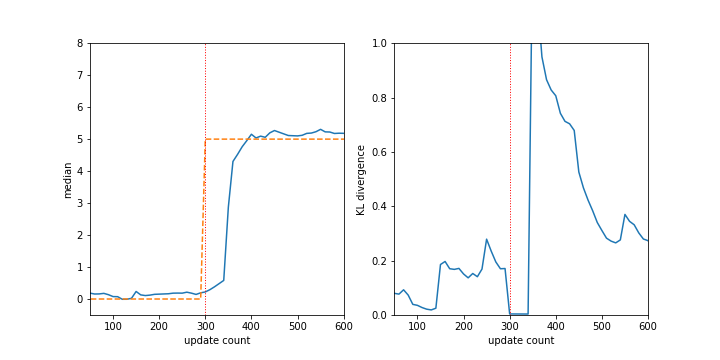
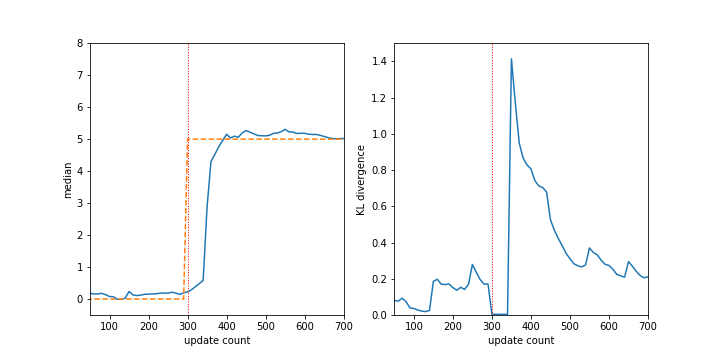
* Update docs
* fix typos
	* update figures of sudden cd histogram

diff --git a/flip-docs/resources/experiments/sudden-cd.py b/flip-docs/resources/experiments/sudden-cd.py
@@ -14,7 +14,7 @@ fig = plt.figure(figsize=(10, 5))
 nrows = 1
 ncols = 2
 countmin = 50
-countmax = 600
+countmax = 700
 
 moving_start = 300
 dest = 5
@@ -23,7 +23,7 @@ def data_loc(i):
     return dir + "sudden-cd-normal-pdf-" + str(i) + ".out"
 
 def expected(x, start, i):
-    if i < start:
+    if i <= start:
         return norm.pdf(x)
     else:
         return norm.pdf(np.array(x) - dest)
@@ -56,7 +56,7 @@ ax1.set_ylim(medianmin, medianmax)
 
 rearr_start = 50
 rearr_period = 100
-kld_max = 1.0
+kld_max = 1.5
 
 kld_data_loc = dir + "sudden-cd-normal-kld.out"
 

diff --git a/README.md b/README.md
@@ -8,9 +8,9 @@
 
 *Flip* is *F*ast, *L*ightweight pure-functional library for *I*nformation theory and *P*robability distribution. *Flip* aims to extract and process statistical features of the input data stream in a short time using only small memory. It has the following features:
 
-* Quicly summarizing probability distribution for random variable stream using `Sketch`
-* Combine several probability distributions with probability monad
-* Generate random variables from predefined and estimated probability disributions 
+* Quicly summarize probability distribution for random variable stream using `Sketch`
+* Combine several probability distributions by probability monad
+* Generate random variables from many predefined and estimated probability disributions 
 * Measure similarity between two probability distribution using Kullback–Leibler divergence
 
 
@@ -35,7 +35,8 @@ Here is an example of how `Sketch` estimates the density using the dataset sampl
 import flip._
 
 // get 100 random variables from standard normal distribution 
-val (_, samples) = NumericDist.normal(0.0, 1.0).samples(100)
+val underlying = NumericDist.normal(0.0, 1.0)
+val (_, samples) = underlying.samples(100)
 
 // update samples to sketch
 val sketch0 = Sketch.empty[Double]
@@ -45,28 +46,30 @@ val utdSketch = samples.foldLeft(sketch0){ case (sketch, sample) =>
 
 // get probability for interval [0.0, 1.0]
 println("result: " + utdSketch.probability(0.0, 1.0)) 
-println("expected: " + NumericDist.normal(0.0, 1.0).probability(0.0, 1.0)) 
+println("expected: " + underlying.probability(0.0, 1.0)) 
 // result: Some(0.39797574440771055)
 // expected: Some(0.34134474606854304)
 ```
 
-Here is a result for a bimodal probabability density function consisting of two standard normal distributions centered at -2 and 2.
+Here is an experimental result for a bimodal probabability density function consisting of two standard normal distributions centered at -2 and 2.
 
 ![animated bimodal](./flip-docs/resources/experiments/basic-bimodal-histo.gif)
 
-In this figure, the dashed orange line is the expected underlying probability distribution, and the blue bar is the probability distribution which `Sketch` estimated. `Sketch` assumes an initial bin with a uniform width, and estimates the first optimal bin at the update count of 50. Then `Sketch` estimates new bins every 100 data updates, for example, 50, 150, 250, and so on.
+In this figure, the dashed orange line is the expected underlying probability distribution, and the blue bar is the probability distribution which `Sketch` estimates. `Sketch` assumes an initial bin with a uniform width, and estimates the first optimal bin at the update count of 50. Then `Sketch` estimates new bins every 100 data updates, for example, 50, 150, 250, and so on.
 
-Sketch also adapts well to any type of concept drift. Here is a experimental result under the situation where the distribution that `Sketch` should estimate is gradually changing over time. The underlying distribution starts to change when the update count is 300 and moves by +0.01 per update count. `Sketch` is predicting this moving distribution well including some lag.
+Sketch also adapts well to any type of concept drift. Here is an experimental result under the situation where the distribution that `Sketch` should estimate is gradually changing over time. The underlying distribution starts to change when the update count is 300 and moves by +0.01 per update count. `Sketch` is predicting this moving distribution well, although ther is some lag. And this lag can be reduced by adjusting the sensitivity to new data.
 
 ![animated gradual concept drift](./flip-docs/resources/experiments/gradual-cd-normal-histo.gif)
 
-In all of these experiments, I did not give any prior knowledge to predict the underlying distirbution well. It just works. For more example, see the [experiment](./flip-docs/experiment.md) document.
+In all of these experiments, I did not give any prior knowledge to predict the underlying distirbution well. It works well with the default configuration. For more example, see the [experiment](./flip-docs/experiment.md) document.
+
 
 ## Contributing
 
 Contributions are always welcome. Any kind of contribution, such as writing a unit test, documentation, bug fix, or implementing [the algorithm of `Sketch`](./flip-docs/algorithm.md) in another language, is helpful. If you need some help, please contact me via [email](mailto:xxxxxnell@gmail.com) or [twitter](https://twitter.com/xxxnell).
 
 Fo more detail, see the [contributing](./CONTRIBUTING.md) document.
+
 
 ## License
 

diff --git a/flip-docs/experiment.md b/flip-docs/experiment.md
@@ -1,6 +1,6 @@
 # Experiment
 
-`Sketch` of *Flip* estimates density from data stream under various conditions. When the data follows stationary statistical properties such as normal, bimodal, log-normal, and pareto, it can be reasonably estimated. Even if the concept drift that is varying statistical properties of the underlying distribution of the data stream occurs in a various ways, `Sketch` can successfully estimate the probability density.
+`Sketch` of *Flip* estimates density from data stream under various conditions. When the data follows stationary statistical properties such as normal, bimodal, log-normal, and pareto, it can be reasonably estimated. Even if the concept drift that is varying statistical properties of the data stream occurs suddenly or gradually, `Sketch` can successfully estimate the probability density. 
 
 
 ## Standard normal distribution

diff --git a/flip-docs/benchmark.md b/flip-docs/benchmark.md
@@ -33,7 +33,7 @@ Online kernel density estimation, or oKDE for short, is an improvement for kerne
 
 I measure *Flip* in two environments: first, the case that `rearrange` to adjust bin periodically, and second, the case that `rearrange` only once when I know that the statistical property of the data stream is stationary. 
 
-The benchmark environment is the Macbook Pro 2016 with 2.9 GHz Intel Core i5 and 16 GB Memory. The forgetting factor of oKDE is set to 0.9.
+The benchmark environment is the Macbook Pro 2016 with 2.9 GHz Intel Core i5 and 16 GB Memory. The forgetting factor of oKDE is set to 0.9. The result is obtained by updating 1000 data streams sampled from bimodal probability density function with a standard normal distribution centered at -2 and 2.
 
 | | *Flip* (periodic) | *Flip* (once) | xHistogram | oKDE |
 | --- | --- | --- | --- | --- |
